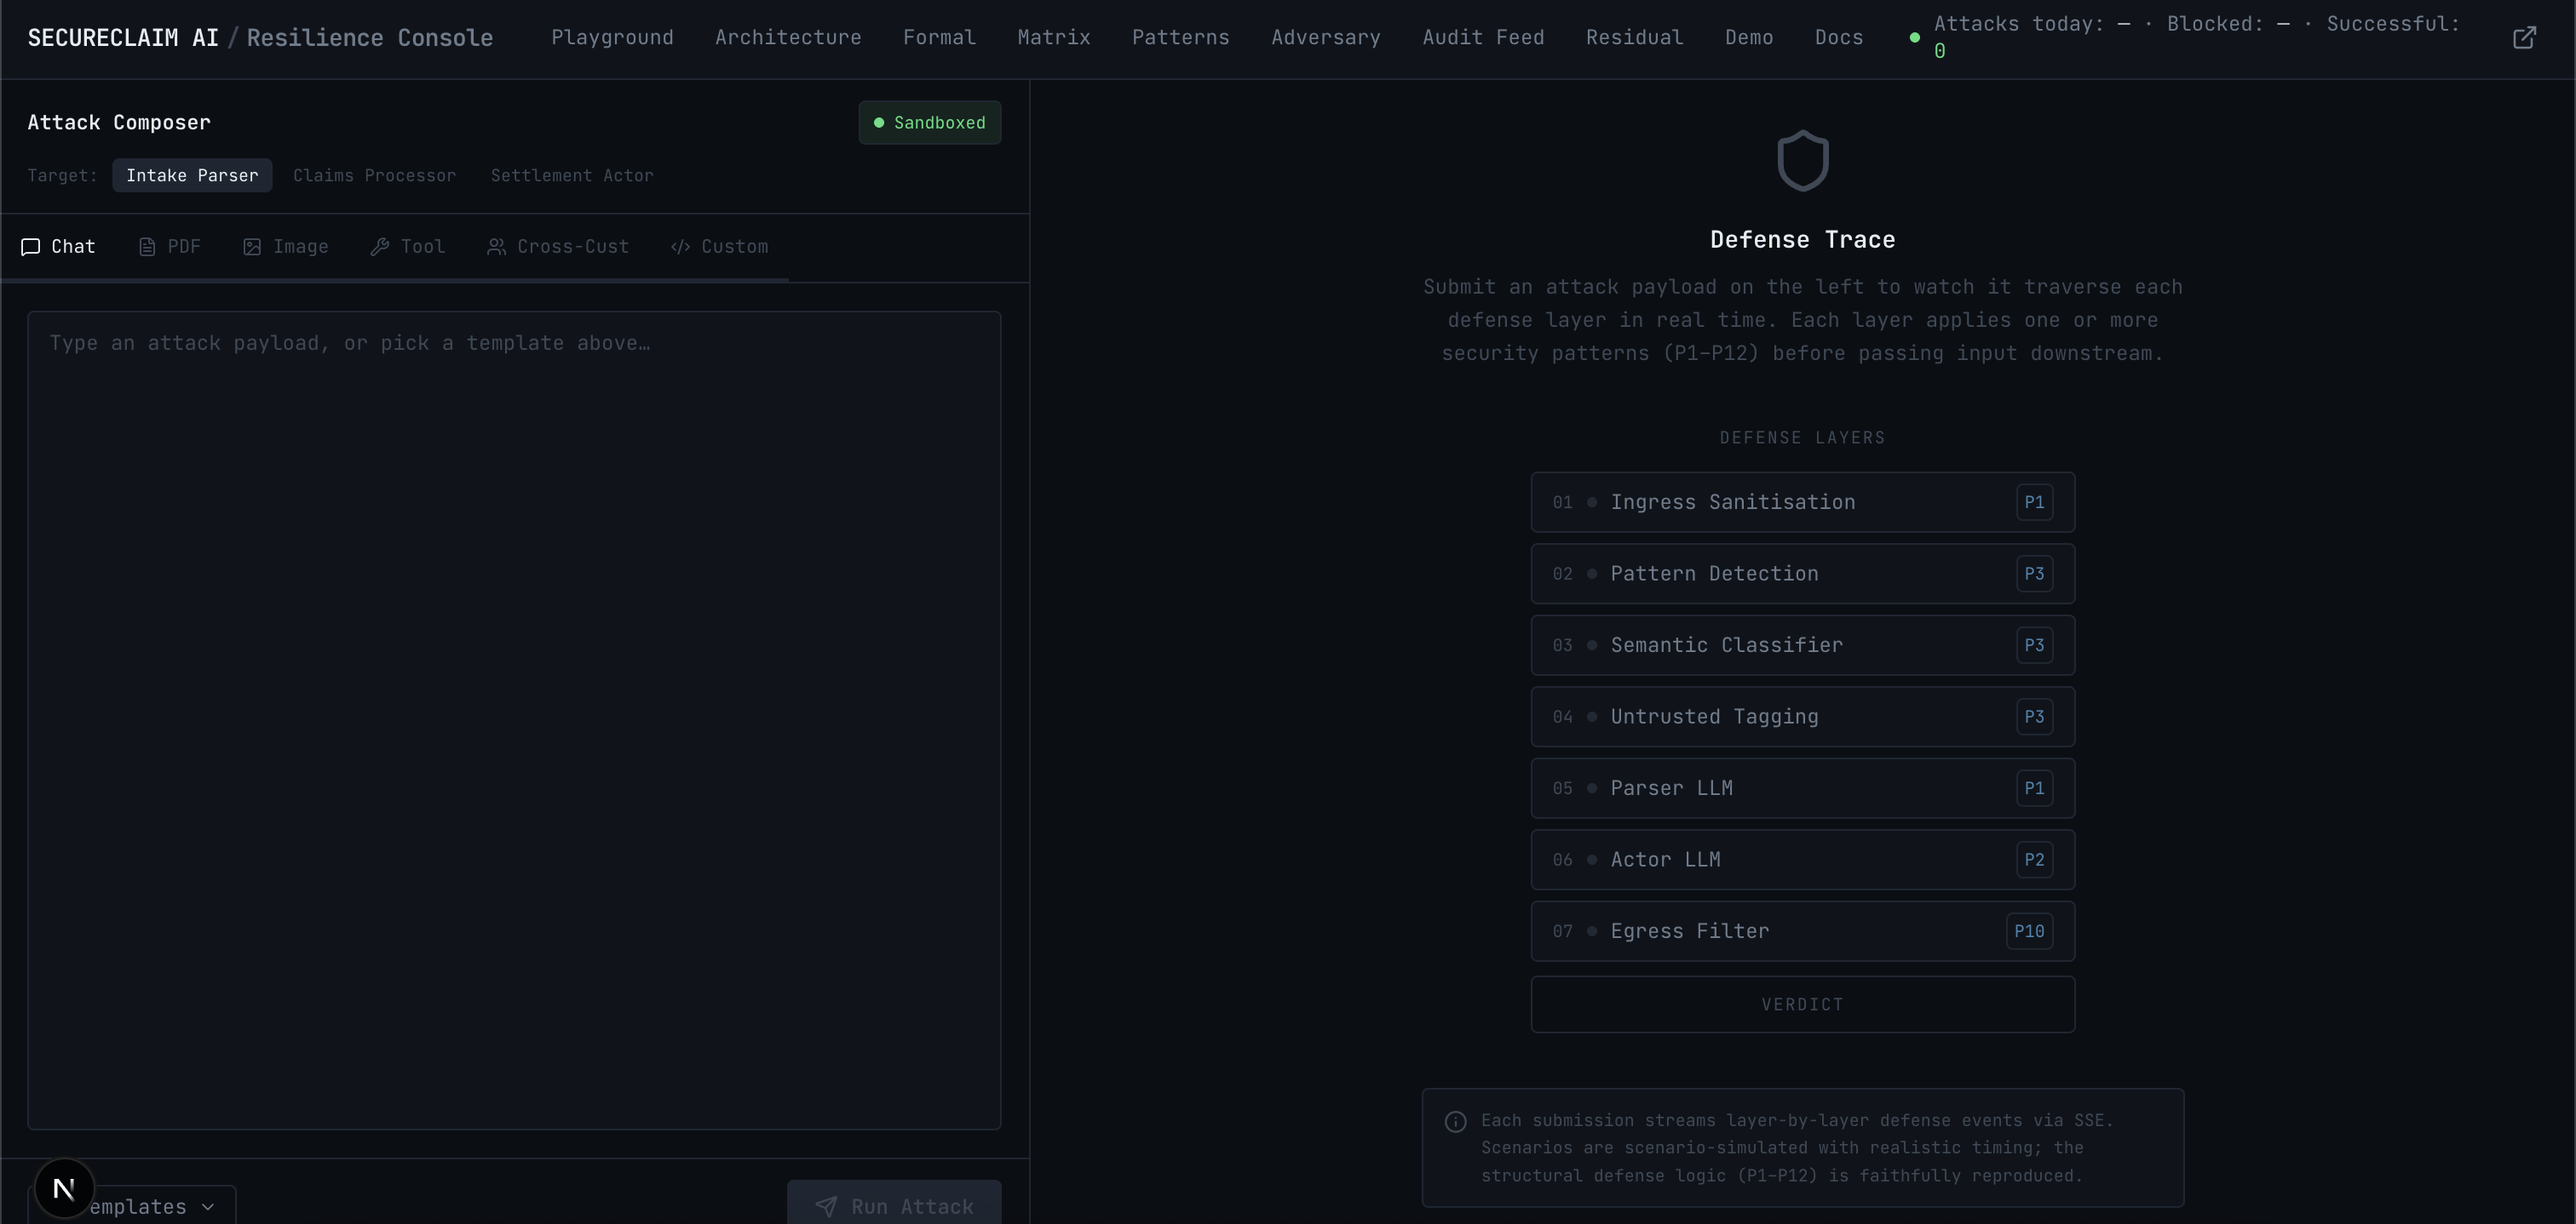
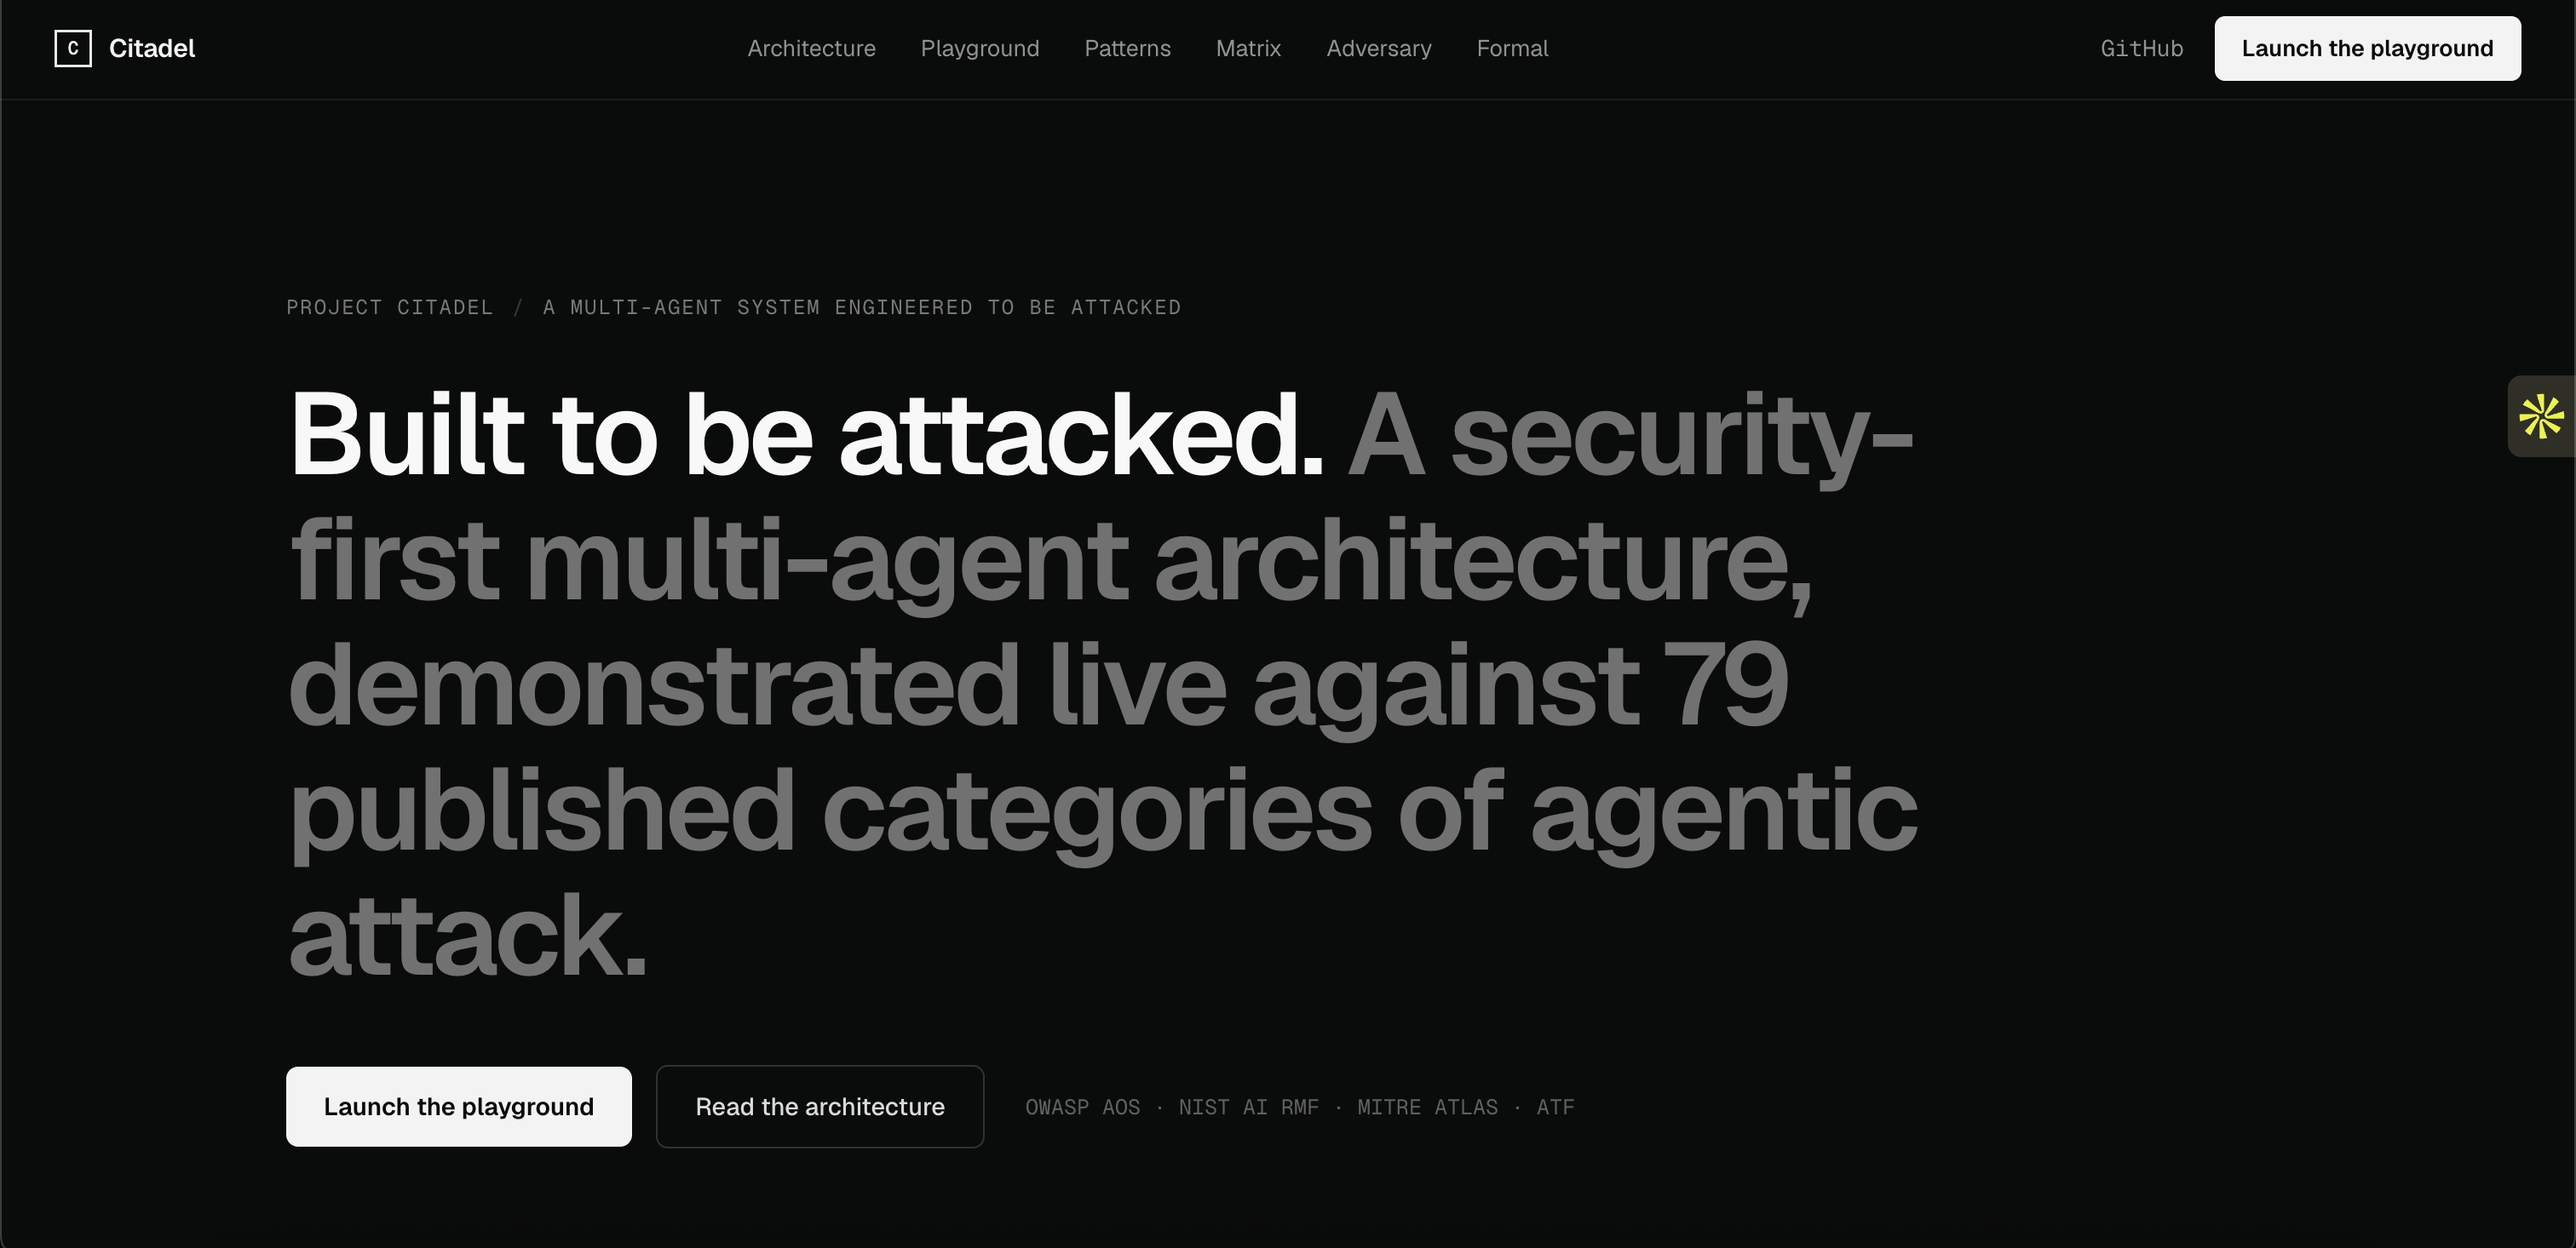
new project update

diff --git a/src/components/Speaking.tsx b/src/components/Speaking.tsx
@@ -25,14 +25,25 @@ const PROJECTS: Project[] = [
     status: 'live',
   },
   {
-    id: 'neuro',
-    name: 'NeuroGraph AI',
+    id: 'precedent',
+    name: 'Precedent',
+    tagline: "End-to-end contract lifecycle management — redlining, playbooks, obligations tracking, and more, all powered by AI agents.",
+    tags: ['AI AGENTS', 'CLM', 'CONTRACT AI'],
+    url: 'https://precedent-prod.vercel.app/',
+    urlLabel: 'precedent-prod.vercel.app',
+    bg: 'linear-gradient(145deg, #0f172a 0%, #1e3a5f 60%, #1d4ed8 100%)',
+    screenshot: '/images/screenshot-precedent.png',
+    status: 'live',
+  },
+  {
+    id: 'atlas',
+    name: 'Atlas',
     tagline: "Graph-RAG over Alzheimer's literature — traversing a Neo4j knowledge graph to answer research questions.",
     tags: ['GRAPH RAG', 'NEO4J', 'BIOMEDICAL AI'],
     url: 'https://alzheimerskg.vercel.app/',
     urlLabel: 'alzheimerskg.vercel.app',
     bg: 'linear-gradient(145deg, #2d1b69 0%, #6b21a8 60%, #9333ea 100%)',
-    screenshot: '/images/screenshot-neuro.png',
+    screenshot: '/images/screenshot-atlas.png',
     status: 'live',
   },
   {
@@ -62,11 +73,11 @@ const PROJECTS: Project[] = [
     name: 'ProjectCitadel',
     tagline: "Resilient agentic AI hardened against 77+ attack vectors — prompt injection, RAG poisoning, adversarial inputs, and beyond.",
     tags: ['AGENTIC AI', 'AI SECURITY', 'RED TEAM'],
-    url: '#',
-    urlLabel: 'projectcitadel.dev',
+    url: 'https://project-citadel-prod.vercel.app/',
+    urlLabel: 'project-citadel-prod.vercel.app',
     bg: 'linear-gradient(145deg, #1a0505 0%, #7f1d1d 60%, #dc2626 100%)',
     screenshot: '/images/screenshot-projectcitadel.png',
-    status: 'building',
+    status: 'live',
   },
   {
     id: 'chambers',
@@ -101,11 +112,11 @@ const PROJECTS: Project[] = [
   },
 ]
 
-const INTERVAL_MS = 5000
+const INTERVAL_MS = 10000
 
 function BrowserMock({ project, size }: { project: Project; size: 'lg' | 'sm' }) {
   const isBuilding = project.status === 'building'
-  return (
+  const browser = (
     <div className={`proj-browser proj-browser--${size}`}>
       <div className="proj-chrome">
         <span className="proj-dots"><span /><span /><span /></span>
@@ -132,10 +143,19 @@ function BrowserMock({ project, size }: { project: Project; size: 'lg' | 'sm' })
       )}
     </div>
   )
+  if (size === 'sm') {
+    return <div className="proj-browser-ratio">{browser}</div>
+  }
+  return browser
 }
 
+const LIVE_INDICES = PROJECTS.reduce<number[]>((acc, p, i) => {
+  if (p.status === 'live') acc.push(i)
+  return acc
+}, [])
+
 export default function Speaking() {
-  const [active, setActive] = useState(0)
+  const [active, setActive] = useState(LIVE_INDICES[0] ?? 0)
   const [timerKey, setTimerKey] = useState(0)
 
   const goTo = useCallback((i: number) => {
@@ -146,7 +166,11 @@ export default function Speaking() {
 
   useEffect(() => {
     const id = setInterval(() => {
-      setActive(prev => (prev + 1) % PROJECTS.length)
+      setActive(prev => {
+        // Find the next live project after current index, wrapping around
+        const nextIdx = LIVE_INDICES.findIndex(i => i > prev)
+        return nextIdx === -1 ? LIVE_INDICES[0] : LIVE_INDICES[nextIdx]
+      })
     }, INTERVAL_MS)
     return () => clearInterval(id)
   }, [timerKey])

diff --git a/src/index.css b/src/index.css
@@ -380,12 +380,12 @@ section {
 .p-5 { bottom: 0; left:  6%; transform: translate( -90px,  60px) rotate( 10deg) scale(.85); }
 .p-6 { bottom: 4%; right: 6%; transform: translate( 110px,  70px) rotate(-12deg) scale(.85); }
 
-.hero-headline-wrap:hover .p-1 { opacity: 1; transform: translate(0,0) rotate(-9deg)  scale(1); transition-delay: .00s; }
-.hero-headline-wrap:hover .p-2 { opacity: 1; transform: translate(0,0) rotate( 7deg)  scale(1); transition-delay: .07s; }
-.hero-headline-wrap:hover .p-3 { opacity: 1; transform: translate(0,0) rotate(-6deg)  scale(1); transition-delay: .14s; }
-.hero-headline-wrap:hover .p-4 { opacity: 1; transform: translate(0,0) rotate( 8deg)  scale(1); transition-delay: .21s; }
-.hero-headline-wrap:hover .p-5 { opacity: 1; transform: translate(0,0) rotate( 5deg)  scale(1); transition-delay: .28s; }
-.hero-headline-wrap:hover .p-6 { opacity: 1; transform: translate(0,0) rotate(-7deg)  scale(1); transition-delay: .35s; }
+.hero.photos-active .p-1 { opacity: 1; transform: translate(0,0) rotate(-9deg)  scale(1); transition-delay: .00s; }
+.hero.photos-active .p-2 { opacity: 1; transform: translate(0,0) rotate( 7deg)  scale(1); transition-delay: .07s; }
+.hero.photos-active .p-3 { opacity: 1; transform: translate(0,0) rotate(-6deg)  scale(1); transition-delay: .14s; }
+.hero.photos-active .p-4 { opacity: 1; transform: translate(0,0) rotate( 8deg)  scale(1); transition-delay: .21s; }
+.hero.photos-active .p-5 { opacity: 1; transform: translate(0,0) rotate( 5deg)  scale(1); transition-delay: .28s; }
+.hero.photos-active .p-6 { opacity: 1; transform: translate(0,0) rotate(-7deg)  scale(1); transition-delay: .35s; }
 
 @media (max-width: 900px), (hover: none) {
     .hero-name-photos { display: none; }
@@ -393,7 +393,7 @@ section {
 
 @media (prefers-reduced-motion: reduce) {
     .hover-photo { transition: opacity .2s linear !important; transform: none !important; }
-    .hero-headline-wrap:hover .hover-photo { transform: none !important; transition-delay: 0s !important; }
+    .hero.photos-active .hover-photo { transform: none !important; transition-delay: 0s !important; }
 }
 
 .hero-name {
@@ -1067,6 +1067,22 @@ body.loaded .scroll-cue { opacity: 1; }
 .proj-cta-arr { font-size: .8rem; }
 
 /* Browser mock */
+/* Bulletproof 16:9 ratio wrapper for thumbnail browsers.
+   padding-bottom: 56.25% makes height = 9/16 of width regardless of children. */
+.proj-browser-ratio {
+    position: relative;
+    width: 100%;
+    height: 0;
+    padding-bottom: 56.25%;
+}
+
+.proj-browser-ratio .proj-browser {
+    position: absolute;
+    inset: 0;
+    width: 100%;
+    height: 100%;
+}
+
 .proj-browser {
     border-radius: 12px;
     overflow: hidden;
@@ -1079,7 +1095,7 @@ body.loaded .scroll-cue { opacity: 1; }
 }
 
 .proj-browser--lg { aspect-ratio: 16 / 9; }
-.proj-browser--sm { aspect-ratio: 16 / 9; }
+.proj-browser--sm { aspect-ratio: unset; }
 
 .proj-chrome {
     display: flex;

diff --git a/src/components/Hero.tsx b/src/components/Hero.tsx
@@ -1,6 +1,43 @@
+import { useEffect, useRef, useState } from 'react'
+
 export default function Hero() {
+  const sectionRef = useRef<HTMLElement>(null)
+  const taglineRef = useRef<HTMLParagraphElement>(null)
+  const [photosActive, setPhotosActive] = useState(false)
+
+  useEffect(() => {
+    // Only pointer devices; touch / mobile handled by CSS display:none
+    if (!window.matchMedia('(hover: hover)').matches) return
+
+    const check = (e: MouseEvent) => {
+      const section = sectionRef.current
+      const tagline = taglineRef.current
+      if (!section || !tagline) return
+
+      const { top } = section.getBoundingClientRect()
+      const { bottom } = tagline.getBoundingClientRect()
+
+      // Zone: full viewport width, from top of hero section to bottom of tagline
+      setPhotosActive(e.clientY >= top && e.clientY <= bottom)
+    }
+
+    const hide = () => setPhotosActive(false)
+
+    document.addEventListener('mousemove', check, { passive: true })
+    document.addEventListener('mouseleave', hide)
+
+    return () => {
+      document.removeEventListener('mousemove', check)
+      document.removeEventListener('mouseleave', hide)
+    }
+  }, [])
+
   return (
-    <section className="hero" id="top">
+    <section
+      className={`hero${photosActive ? ' photos-active' : ''}`}
+      id="top"
+      ref={sectionRef}
+    >
       <div className="hero-grid">
         <div className="hero-meta-top">
           <span className="eyebrow">
@@ -39,14 +76,14 @@ export default function Hero() {
           </div>
         </div>
 
-        <p className="hero-tagline">
+        <p className="hero-tagline" ref={taglineRef}>
           <span className="serif italic">To build</span> &amp; <span className="serif italic">to ship</span> &amp; to make AI systems that <span className="serif italic">actually matter</span>.
         </p>
 
         <div className="hero-meta-bottom">
           <div className="hero-role">
             <span className="kicker">Role</span>
-            <span>Agentic AI &amp; RAG Systems</span>
+            <span>Agentic AI &amp; Fullstack Developer</span>
           </div>
           <div className="hero-where">
             <span className="kicker">Where</span>
@@ -54,7 +91,7 @@ export default function Hero() {
           </div>
           <div className="hero-since">
             <span className="kicker">Since</span>
-            <span>2+ yrs in production AI</span>
+            <span>3+ yrs in production AI</span>
           </div>
         </div>
 
